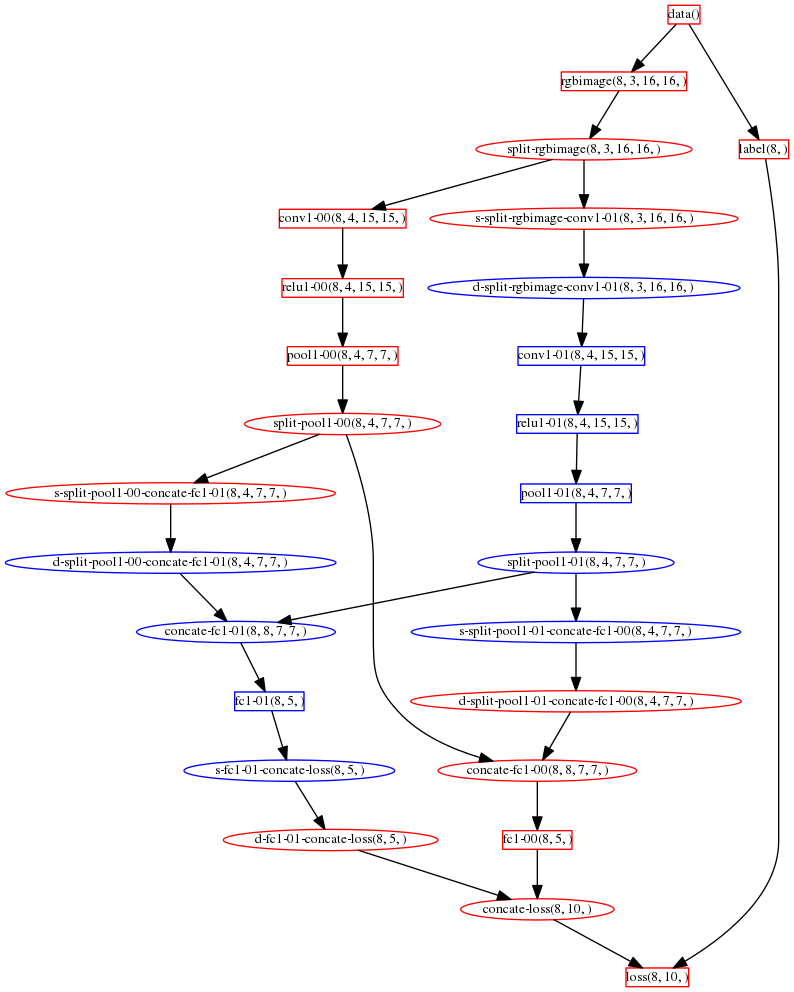
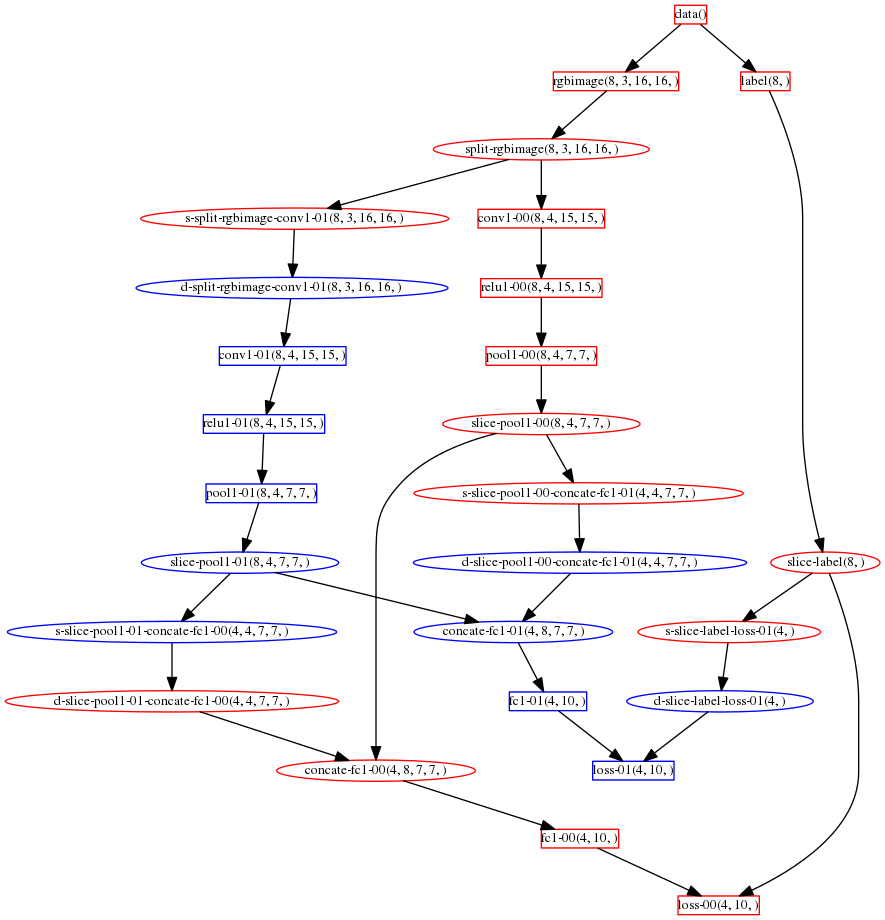
add test for hybrid partition as Alex's weird trick paper.

diff --git a/src/test/test_neuralnet.cc b/src/test/test_neuralnet.cc
@@ -93,6 +93,10 @@ TEST(NeuralNetTest, LayerPartition){
  // const auto& layers=net.layers();
 }
 TEST(NeuralNetTest, HyridPartition){
-
-
+  NetProto proto=CreateNetProto();
+  int num_layers=proto.layer_size();
+  proto.mutable_layer(num_layers-2)->set_partition_type(kDataPartition);
+  proto.mutable_layer(num_layers-1)->set_partition_type(kDataPartition);
+  proto.set_partition_type(kLayerPartition);
+  NeuralNet net(proto, 2);
 }
